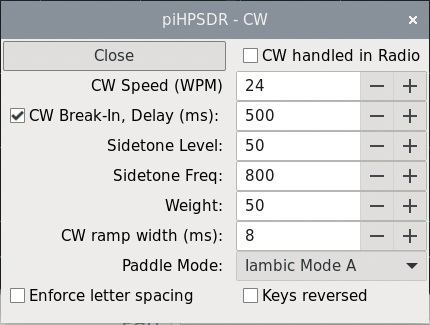
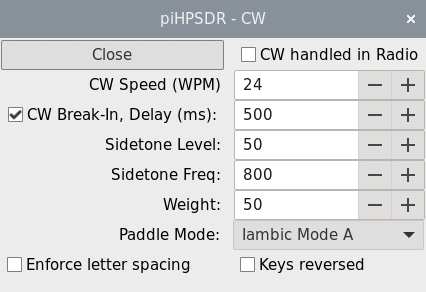
Removed "CW ramp width" spin-box since we now have a good ramp with a default (9 msec) width.

diff --git a/src/cw_menu.c b/src/cw_menu.c
@@ -118,14 +118,17 @@ static void cw_keyer_sidetone_frequency_value_changed_cb(GtkWidget *widget, gpoi
   schedule_high_priority();
 }
 
+#if 0
 static void cw_ramp_width_changed_cb(GtkWidget *widget, gpointer data) {
   cw_ramp_width = gtk_spin_button_get_value_as_int(GTK_SPIN_BUTTON(widget));
   tx_set_ramps(transmitter);
   schedule_transmit_specific();
 }
+#endif
 
 void cw_menu(GtkWidget *parent) {
   dialog = gtk_dialog_new();
+  int col;
   gtk_window_set_transient_for(GTK_WINDOW(dialog), GTK_WINDOW(parent));
   GtkWidget *headerbar = gtk_header_bar_new();
   gtk_window_set_titlebar(GTK_WINDOW(dialog), headerbar);
@@ -138,105 +141,126 @@ void cw_menu(GtkWidget *parent) {
   gtk_grid_set_column_spacing (GTK_GRID(grid), 10);
   gtk_grid_set_column_homogeneous (GTK_GRID(grid), FALSE);
   gtk_grid_set_row_homogeneous (GTK_GRID(grid), TRUE);
+
+  col = 0;
   GtkWidget *close_b = gtk_button_new_with_label("Close");
   gtk_widget_set_name(close_b, "close_button");
   g_signal_connect (close_b, "button-press-event", G_CALLBACK(close_cb), NULL);
-  gtk_grid_attach(GTK_GRID(grid), close_b, 0, 0, 1, 1);
+  gtk_grid_attach(GTK_GRID(grid), close_b, 0, col, 1, 1);
   GtkWidget *cw_keyer_internal_b = gtk_check_button_new_with_label("CW handled in Radio");
   gtk_widget_set_name(cw_keyer_internal_b, "boldlabel");
   gtk_toggle_button_set_active (GTK_TOGGLE_BUTTON (cw_keyer_internal_b), cw_keyer_internal);
   gtk_widget_show(cw_keyer_internal_b);
-  gtk_grid_attach(GTK_GRID(grid), cw_keyer_internal_b, 1, 0, 1, 1);
+  gtk_grid_attach(GTK_GRID(grid), cw_keyer_internal_b, 1, col, 1, 1);
   g_signal_connect(cw_keyer_internal_b, "toggled", G_CALLBACK(cw_keyer_internal_cb), NULL);
+
+  col++;
   GtkWidget *cw_speed_label = gtk_label_new("CW Speed (WPM)");
   gtk_widget_set_name(cw_speed_label, "boldlabel");
   gtk_widget_set_halign(cw_speed_label, GTK_ALIGN_END);
   gtk_widget_show(cw_speed_label);
-  gtk_grid_attach(GTK_GRID(grid), cw_speed_label, 0, 1, 1, 1);
+  gtk_grid_attach(GTK_GRID(grid), cw_speed_label, 0, col, 1, 1);
   GtkWidget *cw_keyer_speed_b = gtk_spin_button_new_with_range(1.0, 60.0, 1.0);
   gtk_spin_button_set_value(GTK_SPIN_BUTTON(cw_keyer_speed_b), (double)cw_keyer_speed);
   gtk_widget_show(cw_keyer_speed_b);
-  gtk_grid_attach(GTK_GRID(grid), cw_keyer_speed_b, 1, 1, 1, 1);
+  gtk_grid_attach(GTK_GRID(grid), cw_keyer_speed_b, 1, col, 1, 1);
   g_signal_connect(cw_keyer_speed_b, "value_changed", G_CALLBACK(cw_keyer_speed_value_changed_cb), NULL);
+
+  col++;
   GtkWidget *cw_breakin_b = gtk_check_button_new_with_label("CW Break-In, Delay (ms):");
   gtk_widget_set_name(cw_breakin_b, "boldlabel");
   gtk_widget_set_halign(cw_breakin_b, GTK_ALIGN_END);
   gtk_toggle_button_set_active (GTK_TOGGLE_BUTTON (cw_breakin_b), cw_breakin);
   gtk_widget_show(cw_breakin_b);
-  gtk_grid_attach(GTK_GRID(grid), cw_breakin_b, 0, 2, 1, 1);
+  gtk_grid_attach(GTK_GRID(grid), cw_breakin_b, 0, col, 1, 1);
   g_signal_connect(cw_breakin_b, "toggled", G_CALLBACK(cw_breakin_cb), NULL);
   GtkWidget *cw_keyer_hang_time_b = gtk_spin_button_new_with_range(0.0, 1000.0, 1.0);
   gtk_spin_button_set_value(GTK_SPIN_BUTTON(cw_keyer_hang_time_b), (double)cw_keyer_hang_time);
   gtk_widget_show(cw_keyer_hang_time_b);
-  gtk_grid_attach(GTK_GRID(grid), cw_keyer_hang_time_b, 1, 2, 1, 1);
+  gtk_grid_attach(GTK_GRID(grid), cw_keyer_hang_time_b, 1, col, 1, 1);
   g_signal_connect(cw_keyer_hang_time_b, "value_changed", G_CALLBACK(cw_keyer_hang_time_value_changed_cb), NULL);
+
+  col++;
   GtkWidget *cw_keyer_sidetone_level_label = gtk_label_new("Sidetone Level:");
   gtk_widget_set_name(cw_keyer_sidetone_level_label, "boldlabel");
   gtk_widget_set_halign(cw_keyer_sidetone_level_label, GTK_ALIGN_END);
   gtk_widget_show(cw_keyer_sidetone_level_label);
-  gtk_grid_attach(GTK_GRID(grid), cw_keyer_sidetone_level_label, 0, 3, 1, 1);
+  gtk_grid_attach(GTK_GRID(grid), cw_keyer_sidetone_level_label, 0, col, 1, 1);
   GtkWidget *cw_keyer_sidetone_level_b = gtk_spin_button_new_with_range(0.0, 127.0, 1.0);
   gtk_spin_button_set_value(GTK_SPIN_BUTTON(cw_keyer_sidetone_level_b), (double)cw_keyer_sidetone_volume);
   gtk_widget_show(cw_keyer_sidetone_level_b);
-  gtk_grid_attach(GTK_GRID(grid), cw_keyer_sidetone_level_b, 1, 3, 1, 1);
+  gtk_grid_attach(GTK_GRID(grid), cw_keyer_sidetone_level_b, 1, col, 1, 1);
   g_signal_connect(cw_keyer_sidetone_level_b, "value_changed", G_CALLBACK(cw_keyer_sidetone_level_value_changed_cb),
                    NULL);
+
+  col++;
   GtkWidget *cw_keyer_sidetone_frequency_label = gtk_label_new("Sidetone Freq:");
   gtk_widget_set_name(cw_keyer_sidetone_frequency_label, "boldlabel");
   gtk_widget_set_halign(cw_keyer_sidetone_frequency_label, GTK_ALIGN_END);
   gtk_widget_show(cw_keyer_sidetone_frequency_label);
-  gtk_grid_attach(GTK_GRID(grid), cw_keyer_sidetone_frequency_label, 0, 4, 1, 1);
+  gtk_grid_attach(GTK_GRID(grid), cw_keyer_sidetone_frequency_label, 0, col, 1, 1);
   GtkWidget *cw_keyer_sidetone_frequency_b = gtk_spin_button_new_with_range(100.0, 1000.0, 1.0);
   gtk_spin_button_set_value(GTK_SPIN_BUTTON(cw_keyer_sidetone_frequency_b), (double)cw_keyer_sidetone_frequency);
   gtk_widget_show(cw_keyer_sidetone_frequency_b);
-  gtk_grid_attach(GTK_GRID(grid), cw_keyer_sidetone_frequency_b, 1, 4, 1, 1);
+  gtk_grid_attach(GTK_GRID(grid), cw_keyer_sidetone_frequency_b, 1, col, 1, 1);
   g_signal_connect(cw_keyer_sidetone_frequency_b, "value_changed",
                    G_CALLBACK(cw_keyer_sidetone_frequency_value_changed_cb), NULL);
+
+  col++;
   GtkWidget *cw_keyer_weight_label = gtk_label_new("Weight:");
   gtk_widget_set_name(cw_keyer_weight_label, "boldlabel");
   gtk_widget_set_halign(cw_keyer_weight_label, GTK_ALIGN_END);
   gtk_widget_show(cw_keyer_weight_label);
-  gtk_grid_attach(GTK_GRID(grid), cw_keyer_weight_label, 0, 5, 1, 1);
+  gtk_grid_attach(GTK_GRID(grid), cw_keyer_weight_label, 0, col, 1, 1);
   GtkWidget *cw_keyer_weight_b = gtk_spin_button_new_with_range(0.0, 100.0, 1.0);
   gtk_spin_button_set_value(GTK_SPIN_BUTTON(cw_keyer_weight_b), (double)cw_keyer_weight);
   gtk_widget_show(cw_keyer_weight_b);
-  gtk_grid_attach(GTK_GRID(grid), cw_keyer_weight_b, 1, 5, 1, 1);
+  gtk_grid_attach(GTK_GRID(grid), cw_keyer_weight_b, 1, col, 1, 1);
   g_signal_connect(cw_keyer_weight_b, "value_changed", G_CALLBACK(cw_keyer_weight_value_changed_cb), NULL);
+
+#if 0
+  col++;
   GtkWidget *cw_ramp_width_label = gtk_label_new("CW ramp width (ms):");
   gtk_widget_set_name(cw_ramp_width_label, "boldlabel");
   gtk_widget_set_halign(cw_ramp_width_label, GTK_ALIGN_END);
   gtk_widget_show(cw_ramp_width_label);
-  gtk_grid_attach(GTK_GRID(grid), cw_ramp_width_label, 0, 6, 1, 1);
+  gtk_grid_attach(GTK_GRID(grid), cw_ramp_width_label, 0, col, 1, 1);
   GtkWidget *cw_ramp_width_b = gtk_spin_button_new_with_range(5.0, 16.0, 1.0);
   gtk_spin_button_set_value(GTK_SPIN_BUTTON(cw_ramp_width_b), cw_ramp_width);
   gtk_widget_show(cw_ramp_width_b);
-  gtk_grid_attach(GTK_GRID(grid), cw_ramp_width_b, 1, 6, 1, 1);
+  gtk_grid_attach(GTK_GRID(grid), cw_ramp_width_b, 1, col, 1, 1);
   g_signal_connect(cw_ramp_width_b, "value_changed", G_CALLBACK(cw_ramp_width_changed_cb), NULL);
+#endif
+
+  col++;
   GtkWidget *paddle_label = gtk_label_new("Paddle Mode:");
   gtk_widget_set_name(paddle_label, "boldlabel");
   gtk_widget_set_halign(paddle_label, GTK_ALIGN_END);
   gtk_widget_show(paddle_label);
-  gtk_grid_attach(GTK_GRID(grid), paddle_label, 0, 7, 1, 1);
+  gtk_grid_attach(GTK_GRID(grid), paddle_label, 0, col, 1, 1);
   GtkWidget *mode_combo = gtk_combo_box_text_new();
   gtk_combo_box_text_append(GTK_COMBO_BOX_TEXT(mode_combo), NULL, "Straight Key");
   gtk_combo_box_text_append(GTK_COMBO_BOX_TEXT(mode_combo), NULL, "Iambic Mode A");
   gtk_combo_box_text_append(GTK_COMBO_BOX_TEXT(mode_combo), NULL, "Iambic Mode B");
   gtk_combo_box_set_active(GTK_COMBO_BOX(mode_combo), cw_keyer_mode);
   gtk_widget_show(mode_combo);
-  my_combo_attach(GTK_GRID(grid), mode_combo, 1, 7, 1, 1);
+  my_combo_attach(GTK_GRID(grid), mode_combo, 1, col, 1, 1);
   g_signal_connect(mode_combo, "changed", G_CALLBACK(cw_keyer_mode_cb), NULL);
+
+  col++;
   GtkWidget *cw_keys_reversed_b = gtk_check_button_new_with_label("Keys reversed");
   gtk_widget_set_name(cw_keys_reversed_b, "boldlabel");
   gtk_toggle_button_set_active (GTK_TOGGLE_BUTTON (cw_keys_reversed_b), cw_keys_reversed);
   gtk_widget_show(cw_keys_reversed_b);
-  gtk_grid_attach(GTK_GRID(grid), cw_keys_reversed_b, 1, 8, 1, 1);
+  gtk_grid_attach(GTK_GRID(grid), cw_keys_reversed_b, 1, col, 1, 1);
   g_signal_connect(cw_keys_reversed_b, "toggled", G_CALLBACK(cw_keys_reversed_cb), NULL);
   GtkWidget *cw_keyer_spacing_b = gtk_check_button_new_with_label("Enforce letter spacing");
   gtk_widget_set_name(cw_keyer_spacing_b, "boldlabel");
   gtk_toggle_button_set_active (GTK_TOGGLE_BUTTON (cw_keyer_spacing_b), cw_keyer_spacing);
   gtk_widget_show(cw_keyer_spacing_b);
-  gtk_grid_attach(GTK_GRID(grid), cw_keyer_spacing_b, 0, 8, 1, 1);
+  gtk_grid_attach(GTK_GRID(grid), cw_keyer_spacing_b, 0, col, 1, 1);
   g_signal_connect(cw_keyer_spacing_b, "toggled", G_CALLBACK(cw_keyer_spacing_cb), NULL);
+
   gtk_container_add(GTK_CONTAINER(content), grid);
   sub_menu = dialog;
   gtk_widget_show_all(dialog);

diff --git a/release/LatexManual/piHPSDR-Manual.tex b/release/LatexManual/piHPSDR-Manual.tex
@@ -2700,39 +2700,39 @@ The normal value is 50, which means that a dash is three times longer
 than a dot. The dash length is proportional to this value, so it can
 be from zero to six times the dot length.
 
-\rett{CW ramp width (ms)}. This spin-box lets you choose the
-width of the ,,ramp'' used for RF CW pulses.
-At the beginning of a dot or dash, the
-amplitude of  the RF pulse is slowly
-increased from zero to full amplitude at the beginning,
-and at the end the amplitudes slowly fall down to zero.
-This avoids harsh clicks in the RF signal
-(which could possibly been heard all over the band for
-hard keying). An optimized ramp function has been implemented
-that gives good click suppression both at small and large
-offsets from the carrier frequency. The
-width is the rise/fall time of the pulse envelope, using the default value
-(9 msec) you will meet ARRL's CSI (clean signal initiative) specification
-for all CW speeds up to 40 wpm. Ramp widths can be chosen from
-5 to 16 msec (\pH does not allow values smaller than 5 msec
-to ensure that your CW signal does not produce overly strong clicks).
-If the RF pulse is shaped
-by \pH (\rett{CW handled in Radio} \textit{not} checked),
-you will get
-the optimized ramp function an the chosen ramp width.
-A very recent Protocol-2 update
-(March 2024) allows to send the ramp width to the radio as well.
-However, the FPGA firmware in the radio will ignore that value
-unless you run a very recent model, so with
-\rett{CW handled in Radio} checked, changing the ramp width in this menu
-has possibly no effect.
-
-The CW side tone needs pulse shaping as well to become pleasant.
-To make sure that the delay of the CW side tone is
-as small as possible, a ramp with a raised cosine shape
-and a constant width of 5 msec (independent of the ramp width
-used for RF) is used when \rett{CW handled in Radio} \textit{not} checked
-such that \pH shapes the side tone.
+%\rett{CW ramp width (ms)}. This spin-box lets you choose the
+%width of the ,,ramp'' used for RF CW pulses.
+%At the beginning of a dot or dash, the
+%amplitude of  the RF pulse is slowly
+%increased from zero to full amplitude at the beginning,
+%and at the end the amplitudes slowly fall down to zero.
+%This avoids harsh clicks in the RF signal
+%(which could possibly been heard all over the band for
+%hard keying). An optimized ramp function has been implemented
+%that gives good click suppression both at small and large
+%offsets from the carrier frequency. The
+%width is the rise/fall time of the pulse envelope, using the default value
+%(9 msec) you will meet ARRL's CSI (clean signal initiative) specification
+%for all CW speeds up to 40 wpm. Ramp widths can be chosen from
+%5 to 16 msec (\pH does not allow values smaller than 5 msec
+%to ensure that your CW signal does not produce overly strong clicks).
+%If the RF pulse is shaped
+%by \pH (\rett{CW handled in Radio} \textit{not} checked),
+%you will get
+%the optimized ramp function an the chosen ramp width.
+%A very recent Protocol-2 update
+%(March 2024) allows to send the ramp width to the radio as well.
+%However, the FPGA firmware in the radio will ignore that value
+%unless you run a very recent model, so with
+%\rett{CW handled in Radio} checked, changing the ramp width in this menu
+%has possibly no effect.
+%
+%The CW side tone needs pulse shaping as well to become pleasant.
+%To make sure that the delay of the CW side tone is
+%as small as possible, a ramp with a raised cosine shape
+%and a constant width of 5 msec (independent of the ramp width
+%used for RF) is used when \rett{CW handled in Radio} \textit{not} checked
+%such that \pH shapes the side tone.
 
 \rett{Paddle Mode:} Here the choice is Iambic Mode A, Iambic Mode B,
 and  Straight Key. In Straight Key mode, the key has to be connected
@@ -2740,9 +2740,6 @@ to the dash paddle, since the built-in keyer implements a bug mode
 there (automatic dots from the dot paddle, straight key behaviour
 for the dash paddle). When using an external keyer, use StraightKey
 mode and connect the keyer output to the dash paddle input.
-
-\rett{Keys reversed}. When checking this box, the dot and dash contacts
-are reversed, so you need not re-wire your paddle.
 
 \rett{Enforce letter spacing}. This option forces you to give ,,cleaner'' CW
 when in iambic mode. If at the end of an inter-element pause no key is
@@ -2752,6 +2749,10 @@ might well corrupt a letter you want to send. For example, when sending
 the letter "X" and the dot paddle is pressed a little too late, you
 instead send "TU". This option is probably more useful for practising than
 for doing real QSOs.
+
+\rett{Keys reversed}. When checking this box, the dot and dash contacts
+are reversed, so you need not re-wire your paddle.
+
 
 %%%%%%%%%%%%%%%%%%%%%%%%%%%%%%%%%%%%%%%%%%%%%%%%%%%%%%%%%%%%%%%%%%%%%%%%%%%%%%%%%%%%%%%%%%%%%%%%%%%%%%%%%%%%
 %%%%%%%%%%%%%%%%%%%%%%%%%%%%%%%%%%%%%%%%%%%%%%%%%%%%%%%%%%%%%%%%%%%%%%%%%%%%%%%%%%%%%%%%%%%%%%%%%%%%%%%%%%%%

diff --git a/src/radio.c b/src/radio.c
@@ -2414,7 +2414,7 @@ static void radio_restore_state() {
   GetPropI0("cw_keyer_hang_time",                            cw_keyer_hang_time);
   GetPropI0("cw_keyer_sidetone_frequency",                   cw_keyer_sidetone_frequency);
   GetPropI0("cw_breakin",                                    cw_breakin);
-  GetPropI0("cw_ramp_width",                                 cw_ramp_width);
+  //GetPropI0("cw_ramp_width",                                 cw_ramp_width);
   GetPropI0("vfo_encoder_divisor",                           vfo_encoder_divisor);
   GetPropI0("OCtune",                                        OCtune);
   GetPropI0("OCfull_tune_time",                              OCfull_tune_time);
@@ -2617,7 +2617,7 @@ void radio_save_state() {
   SetPropI0("cw_keyer_hang_time",                            cw_keyer_hang_time);
   SetPropI0("cw_keyer_sidetone_frequency",                   cw_keyer_sidetone_frequency);
   SetPropI0("cw_breakin",                                    cw_breakin);
-  SetPropI0("cw_ramp_width",                                 cw_ramp_width);
+  //SetPropI0("cw_ramp_width",                                 cw_ramp_width);
   SetPropI0("vfo_encoder_divisor",                           vfo_encoder_divisor);
   SetPropI0("OCtune",                                        OCtune);
   SetPropI0("OCfull_tune_time",                              OCfull_tune_time);
